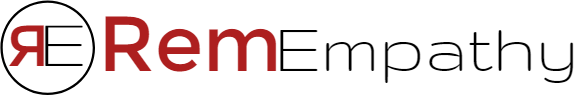
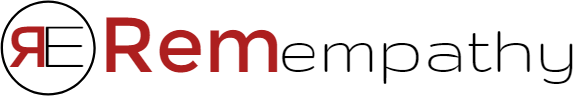
Prettied up Feedback page

diff --git a/src/app/contact/contact.component.html b/src/app/contact/contact.component.html
@@ -1,33 +1,37 @@
 <div class="container">
   <div class="row">
-    <div class="col-xs-5 col-sm-5 col-md-5 col-lg-5" id="email">
+    <div class="col-xs-6 col-sm-6 col-md-6 col-lg-6" id="email">
       <div class="form-group">
       <form method="POST" action="http://formspree.io/ajhephner178@gmail.com">
         <h2>Feedback</h2>
         <label for="email">Email:</label>
-        <input type="email" class="form-control" name="email" placeholder="Your email">
+        <input type="email" class="form-control email-input" name="email" placeholder="Your email">
+
         <label for="reason">Reason:</label>
-        <select class="form-control" id="reason">
+        <select class="form-control reason-input" id="reason">
           <option *ngFor="let i of home" [value]="i">{{i}}</option>
         </select>
 
         <label for="message">Message:</label>
-        <textarea name="message" class="form-control" placeholder="Your message"></textarea>
-        <button class="btn btn-danger" type="submit">Send</button>
+        <textarea name="message" class="form-control message-input" placeholder="Your message"></textarea>
+
+        <button class="btn" type="submit"><h4 class="btn-text">Send</h4></button>
       </form>
     </div>
     </div>
 <!-- left hand side below -->
 
-      <div class="col-xs-5 col-sm-5 col-md-5 col-lg-5">
+      <div class="col-xs-5 col-sm-5 col-md-5 col-lg-5" >
+        <div class="img-quote">
           <div class="picture">
-            <h3>Image Goes in this box</h3>
+            <img class="img" src="./assets/feedbackPage-quotePic.jpg" alt="">
           </div>
 
           <div class="quote" id="text">
-            <h1>Quote on patient focus here </h1>
+            <h4>It's not how much you do, but how much love you put into the doing the matters</h4>
+            <h4>- Mother Teresa</h4>
           </div>
-
+        </div>
       </div>
 
 

diff --git a/src/app/contact/contact.component.css b/src/app/contact/contact.component.css
@@ -1,8 +1,46 @@
-#text{
-    border: 1px solid black
+.picture{
+    
+    margin: 15% 0 5% 0;
 }
 
-.picture{
-    border: 1px solid black;
-    margin-bottom: 5%
+#text{
+    
+}
+
+.img-quote {
+    margin-left: 5%;
+}
+
+.email-input {
+    margin-bottom: 3%;
+}
+
+.reason-input {
+    margin-bottom: 3%;
+}
+
+.message-input {
+    margin-bottom: 1%;
+}
+
+.btn {
+    background-color: #AD1F1F;
+    border: 1px solid #AD1F1F;
+    color: #fff;
+    padding: 8px 8px 7px 8px;
+}
+
+.btn:hover {
+    background-color: #fff;
+    border: 1px solid #AD1F1F;
+    color: #333;
+}
+
+.btn-text {
+    margin: 0px;
+}
+ 
+.img {
+    height: 270px;
+    border-radius: 6px;
 }

diff --git a/src/app/app.component.html b/src/app/app.component.html
@@ -5,7 +5,7 @@
                 <li style="height: 0px;"><a [routerLink]="['/signin']" class="signin-up-out-buttons" style="color: #AD1F1F;">Sign In</a></li>
                 <li style="height: 0px;"><a (click)="signOutToken()"  class="signin-up-out-buttons" style="color: #AD1F1F;">Sign Out</a></li>
         </ul>
-        <img id="logo" src="./assets/RemEmpathy-blacktext.png" alt="RemEmpathy" />
+        <img id="logo" src="./assets/Remempathy-blacktext.png" alt="RemEmpathy" />
         
     </div>
     <nav class='navbar navbar-default'>

diff --git a/src/app/app.component.css b/src/app/app.component.css
@@ -89,8 +89,8 @@ ul a {
     }
 }
 
-@media (min-width: 1700px) {
+/* @media (min-width: 1700px) {
     #nav a{
         margin: 0em 4em 0em 4em;
     }
-}
+} */
